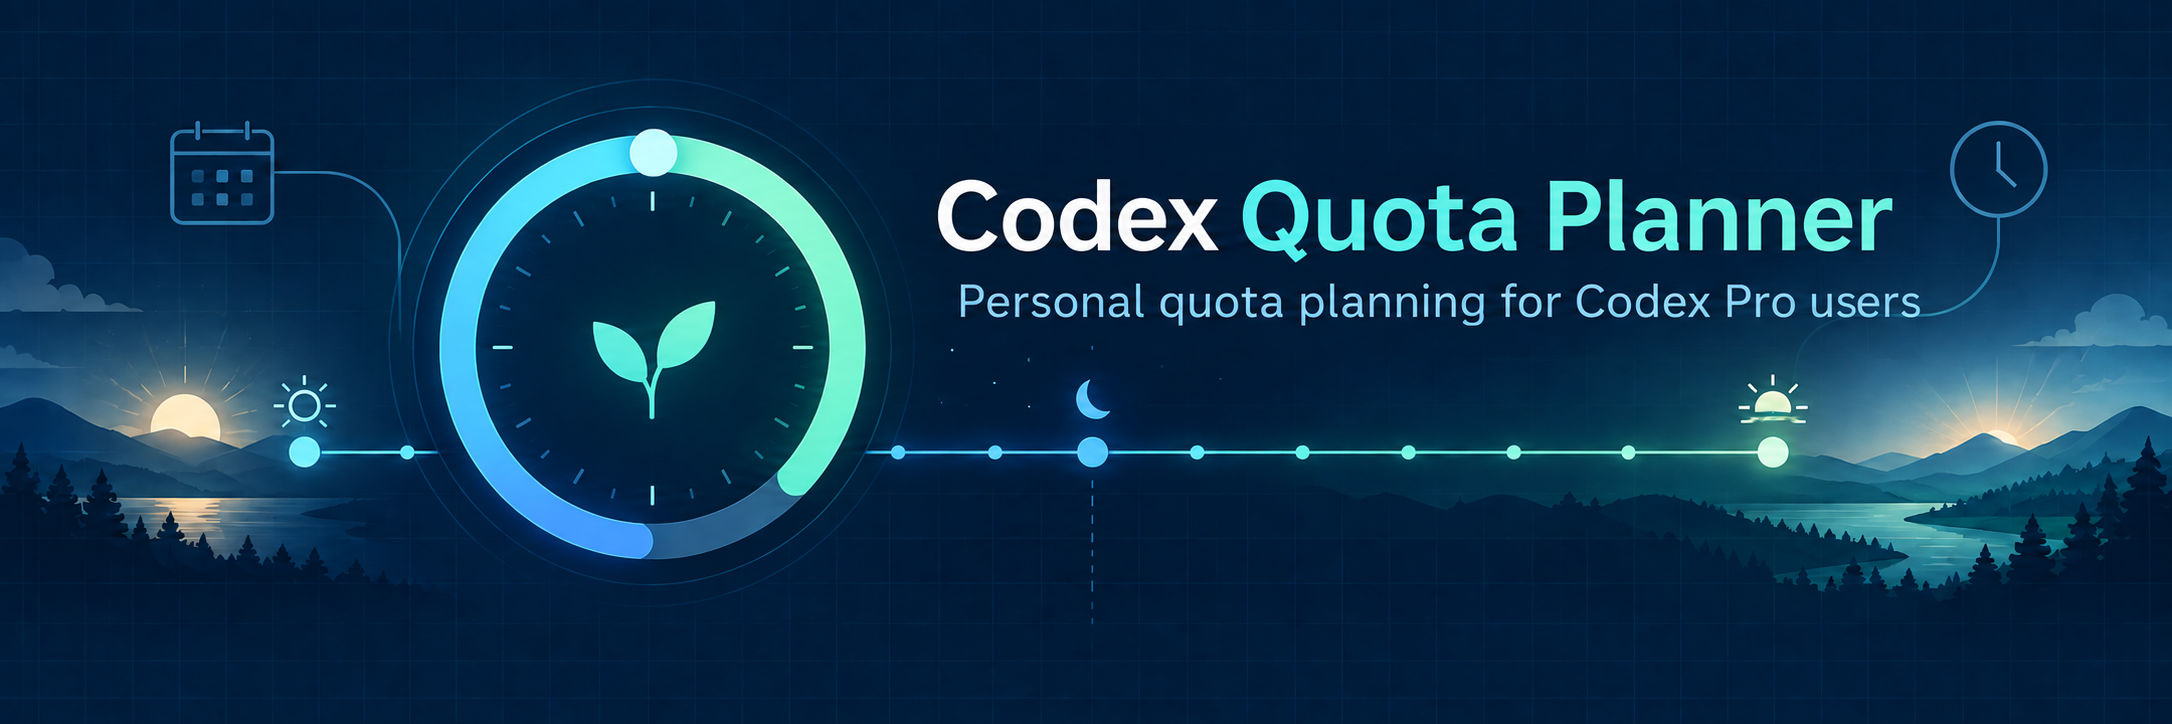
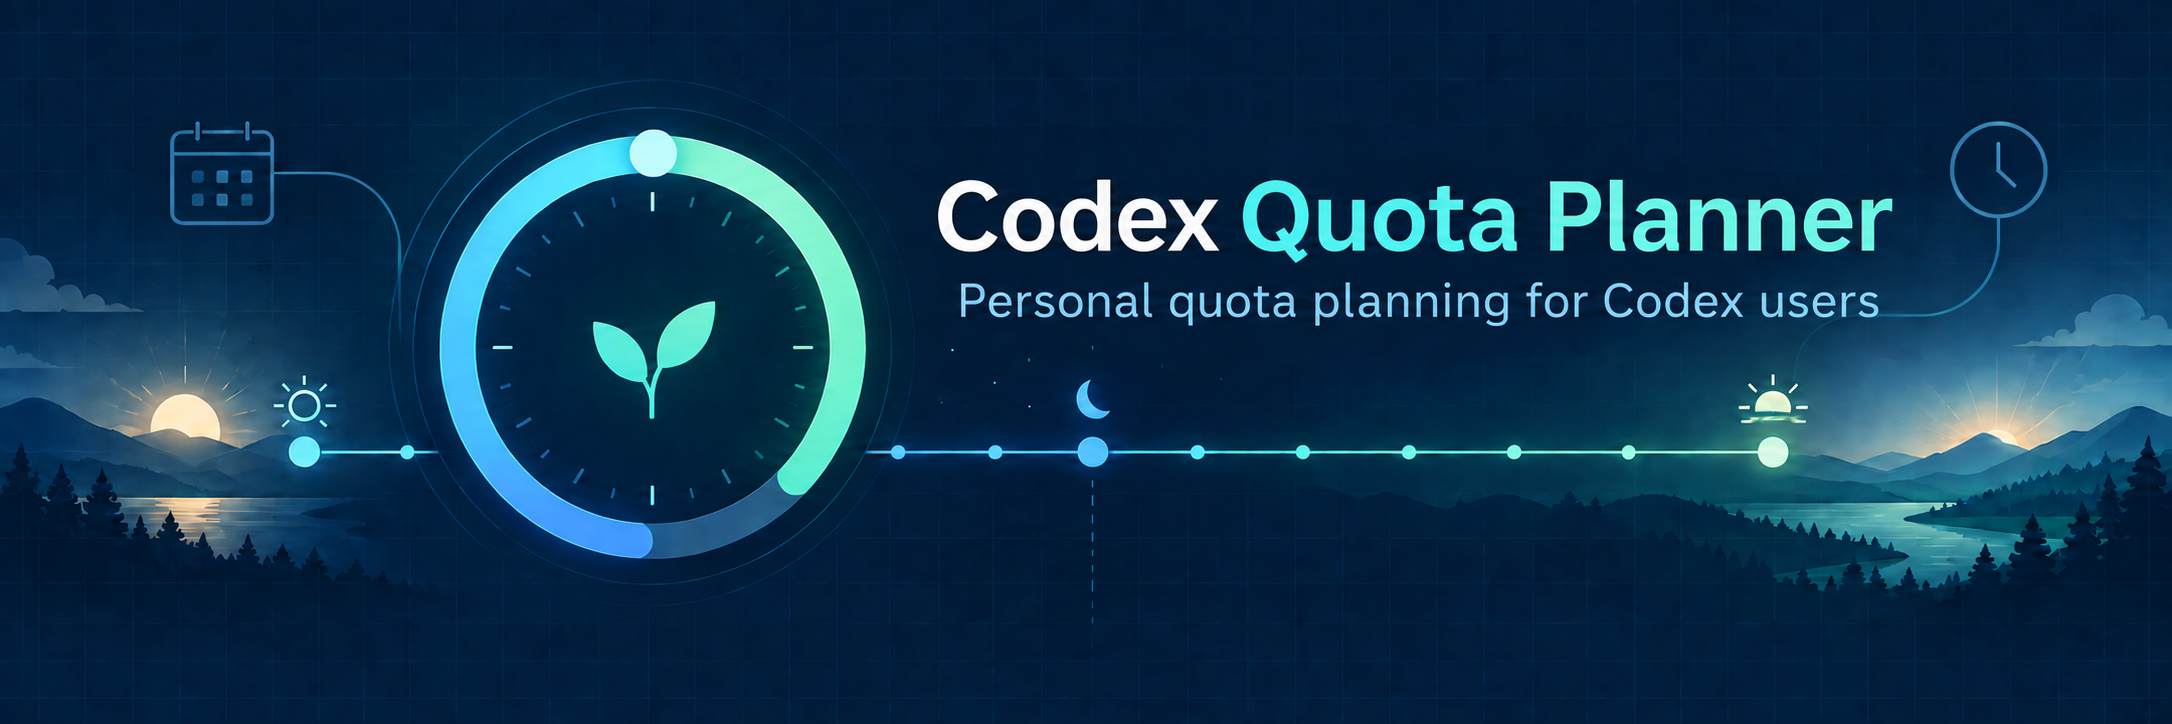
Use Codex-wide audience wording

diff --git a/README.md b/README.md
@@ -2,7 +2,7 @@
 
 ![Codex Quota Planner 宣传图](./assets/codex-quota-planner-banner.png)
 
-一个为 **Codex Pro 用户**设计的个人额度规划器：单文件、零依赖、数据留在本机。
+一个为 **Codex 用户**设计的个人额度规划器：单文件、零依赖、数据留在本机。
 
 输入自己的剩余额度和重置时间，它会帮助你自主规划使用节奏：今天最多还能用多少，以及今晚至少应该保留多少。
 
